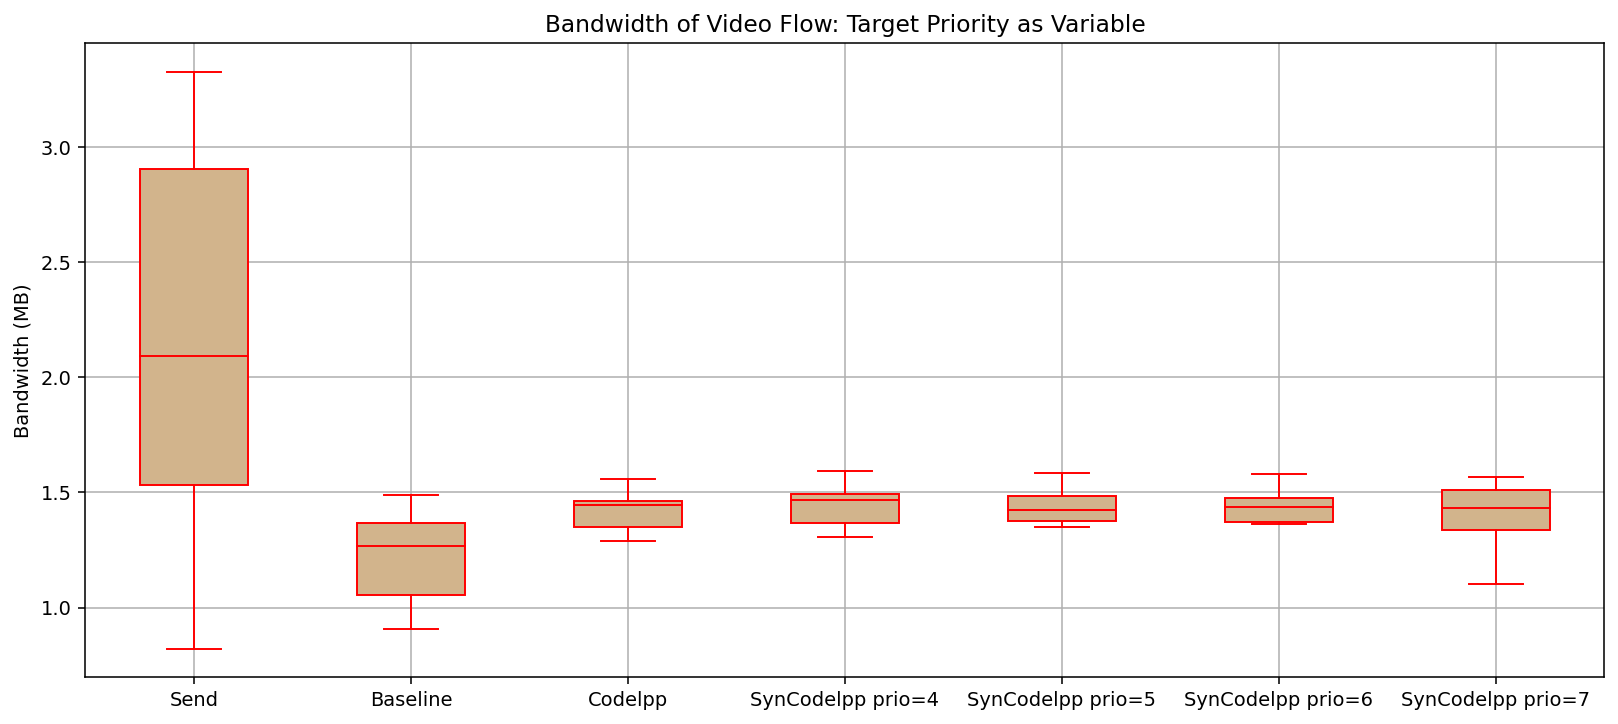
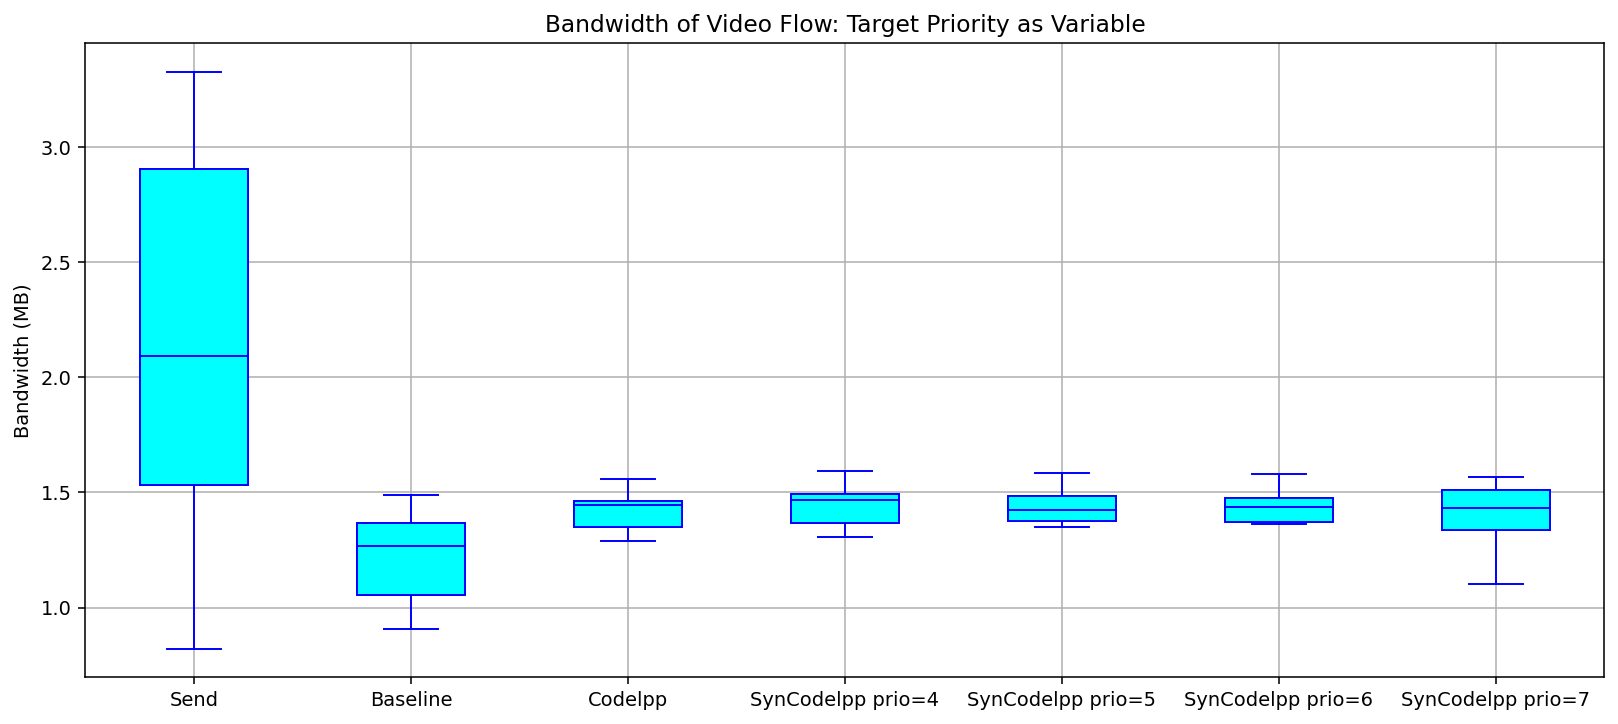
feat: more on prio test

diff --git a/SoTA/MetricsMeasurement/Basic_priority/BW.py b/SoTA/MetricsMeasurement/Basic_priority/BW.py
@@ -91,12 +91,12 @@ if __name__ == "__main__":
     plt.show()
     
     #Video BW
-    dfs_haptic = [df_synPrio5_pih2_send, df_baseline_pih2_receive, df_codelpp_pih2_receive, df_synPrio4_pih2_receive, df_synPrio5_pih2_receive, df_synPrio6_pih2_receive, df_synPrio7_pih2_receive]
+    dfs_video = [df_synPrio5_pih2_send, df_baseline_pih2_receive, df_codelpp_pih2_receive, df_synPrio4_pih2_receive, df_synPrio5_pih2_receive, df_synPrio6_pih2_receive, df_synPrio7_pih2_receive]
     
     fig, ax = plt.subplots(figsize=(14, 6))
         
     labels = ["Send","Baseline", "Codelpp","SynCodelpp prio=4","SynCodelpp prio=5","SynCodelpp prio=6","SynCodelpp prio=7"]
-    boxplots_h = box_plot(dfs_haptic, 'red', 'tan', labels)
+    boxplots_v = box_plot(dfs_video, 'blue', 'cyan', labels)
     
     # Set y-axis label
     ax.set_ylabel('Bandwidth (MB)')

diff --git a/SoTA/MetricsMeasurement/Basic_priority/transferedPkts.py b/SoTA/MetricsMeasurement/Basic_priority/transferedPkts.py
@@ -1,0 +1,33 @@
+# -*- coding: utf-8 -*-
+
+import pandas as pd
+import datetime
+from tqdm import tqdm
+import numpy as np
+import matplotlib.pyplot as plt
+
+pd.options.mode.chained_assignment = None 
+
+# Sample data
+values = [294*100/1993,272*100/1952,242*100/1951, 253*100/1978]
+
+# Create a Figure and Axes object
+fig, ax = plt.subplots(figsize=(6, 6))
+
+# Plotting the histogram
+ax.bar(range(len(values)), values, width=0.5)
+
+# Adding labels and title
+ax.set_ylabel('Prioritizied Percentage (%)')
+ax.set_title('Percentage of Prioritized Video Packets: Target Priority as Variable')
+
+# Customizing x-axis tick labels
+ax.set_xticks(range(len(values)))
+ax.set_xticklabels(["prio=4","prio=5","prio=6","prio=7"])
+
+ax.yaxis.set_major_locator(plt.MultipleLocator(base=1)) 
+
+ax.grid(True)
+
+# Display the plot
+plt.show()
